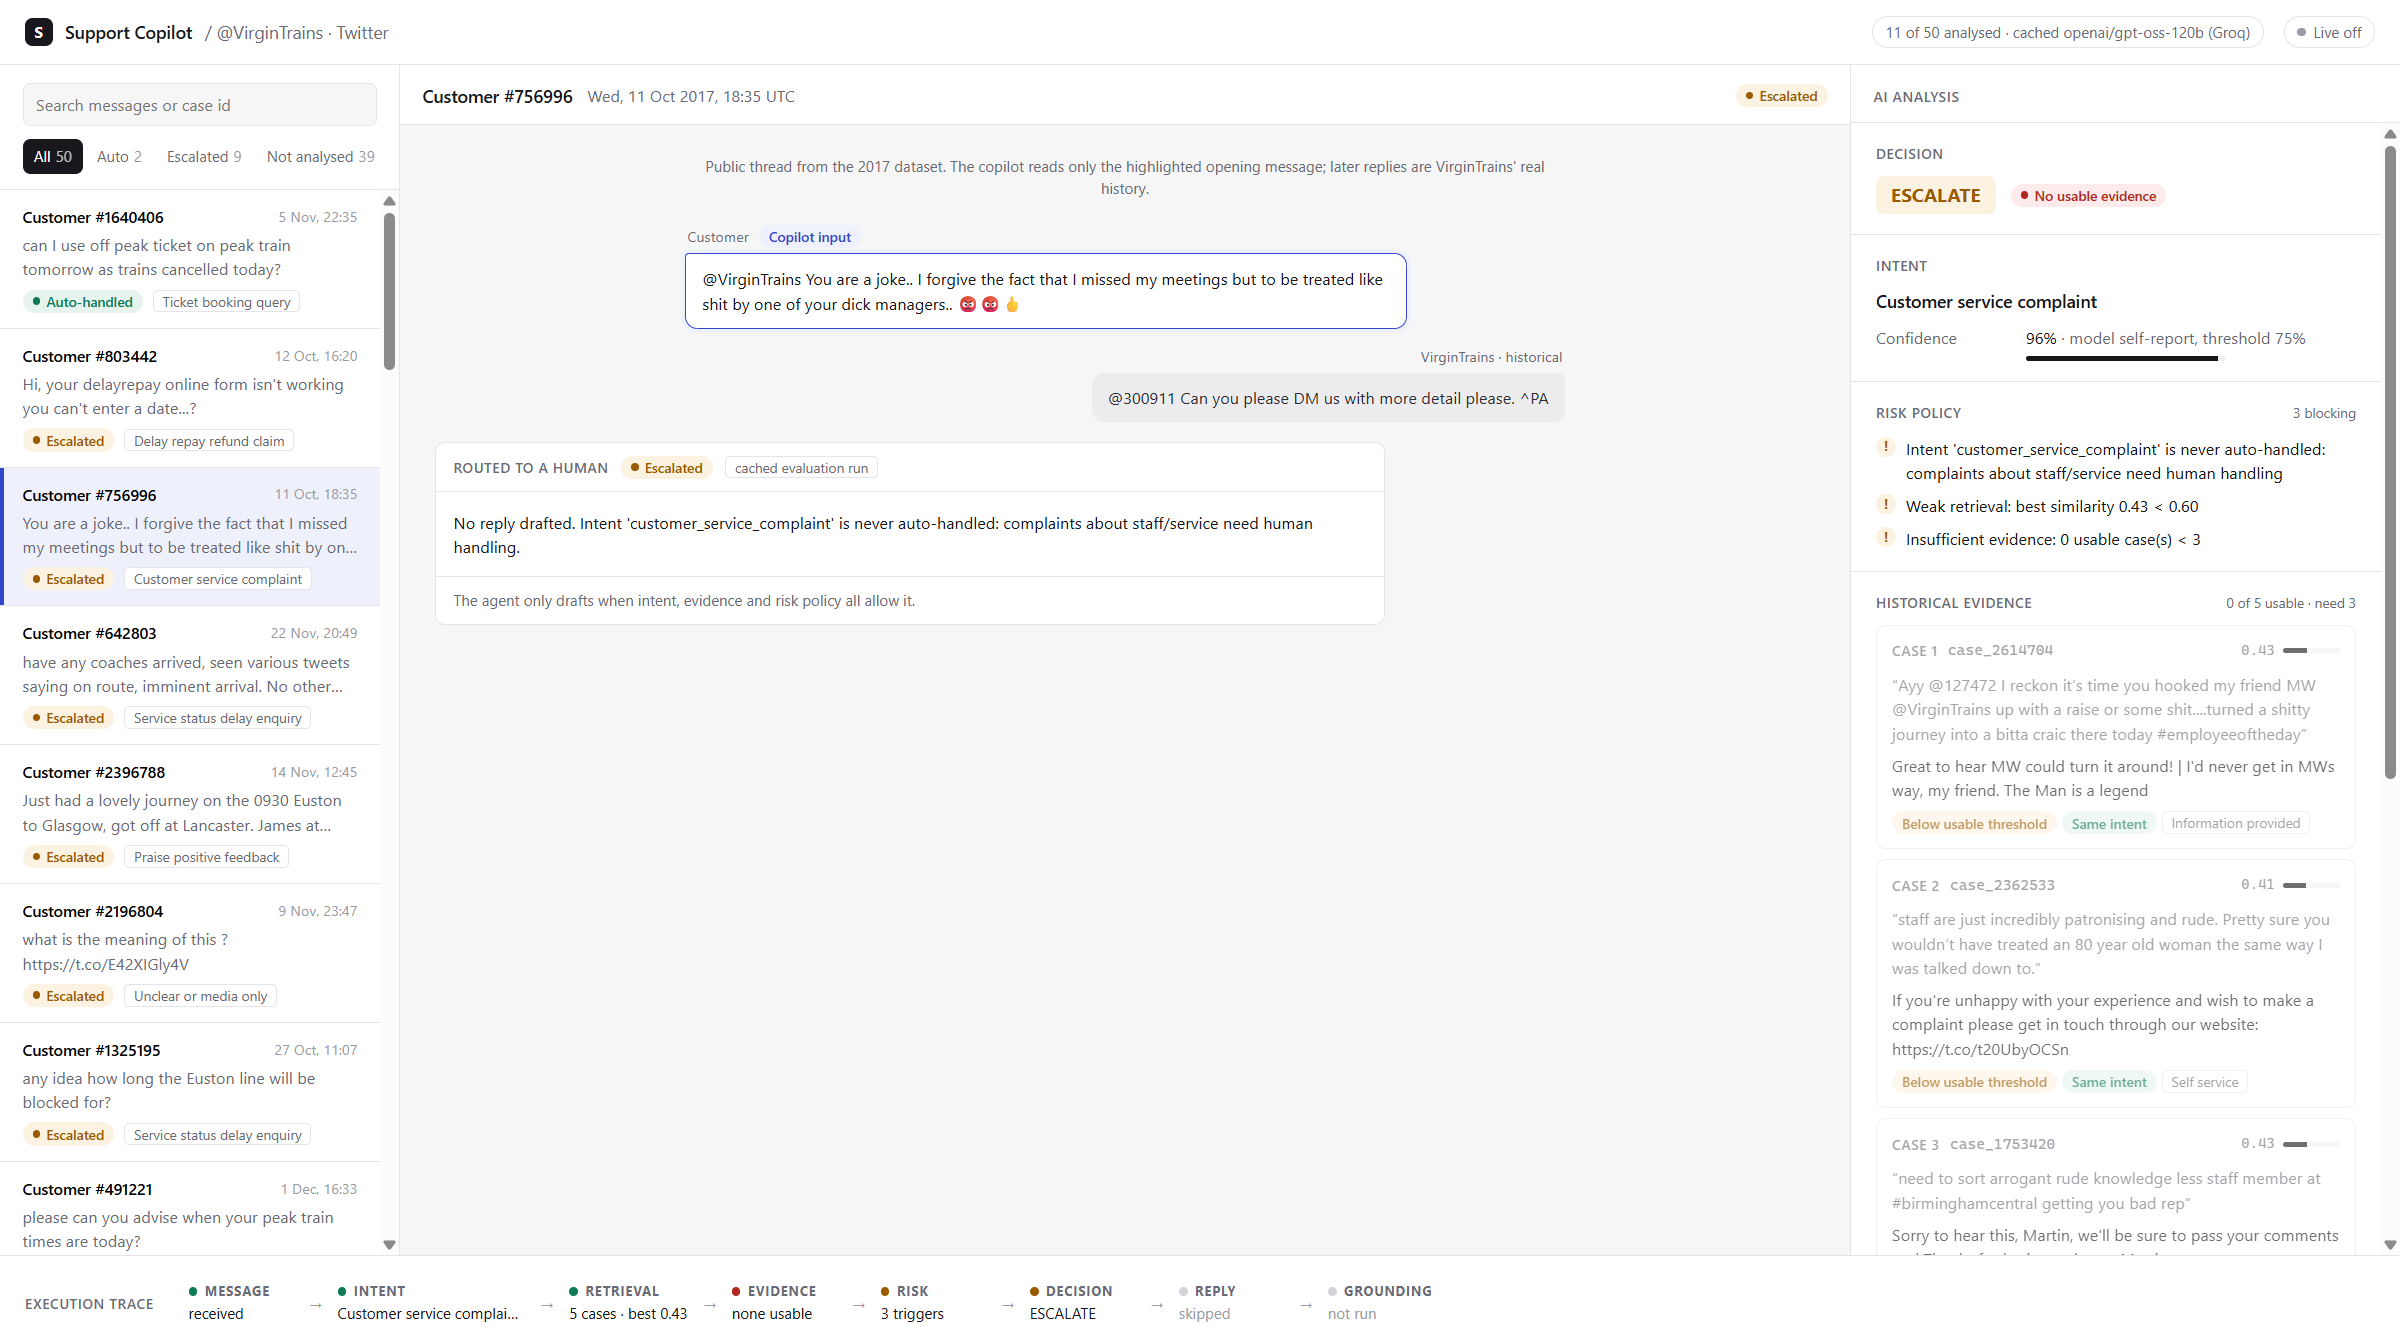
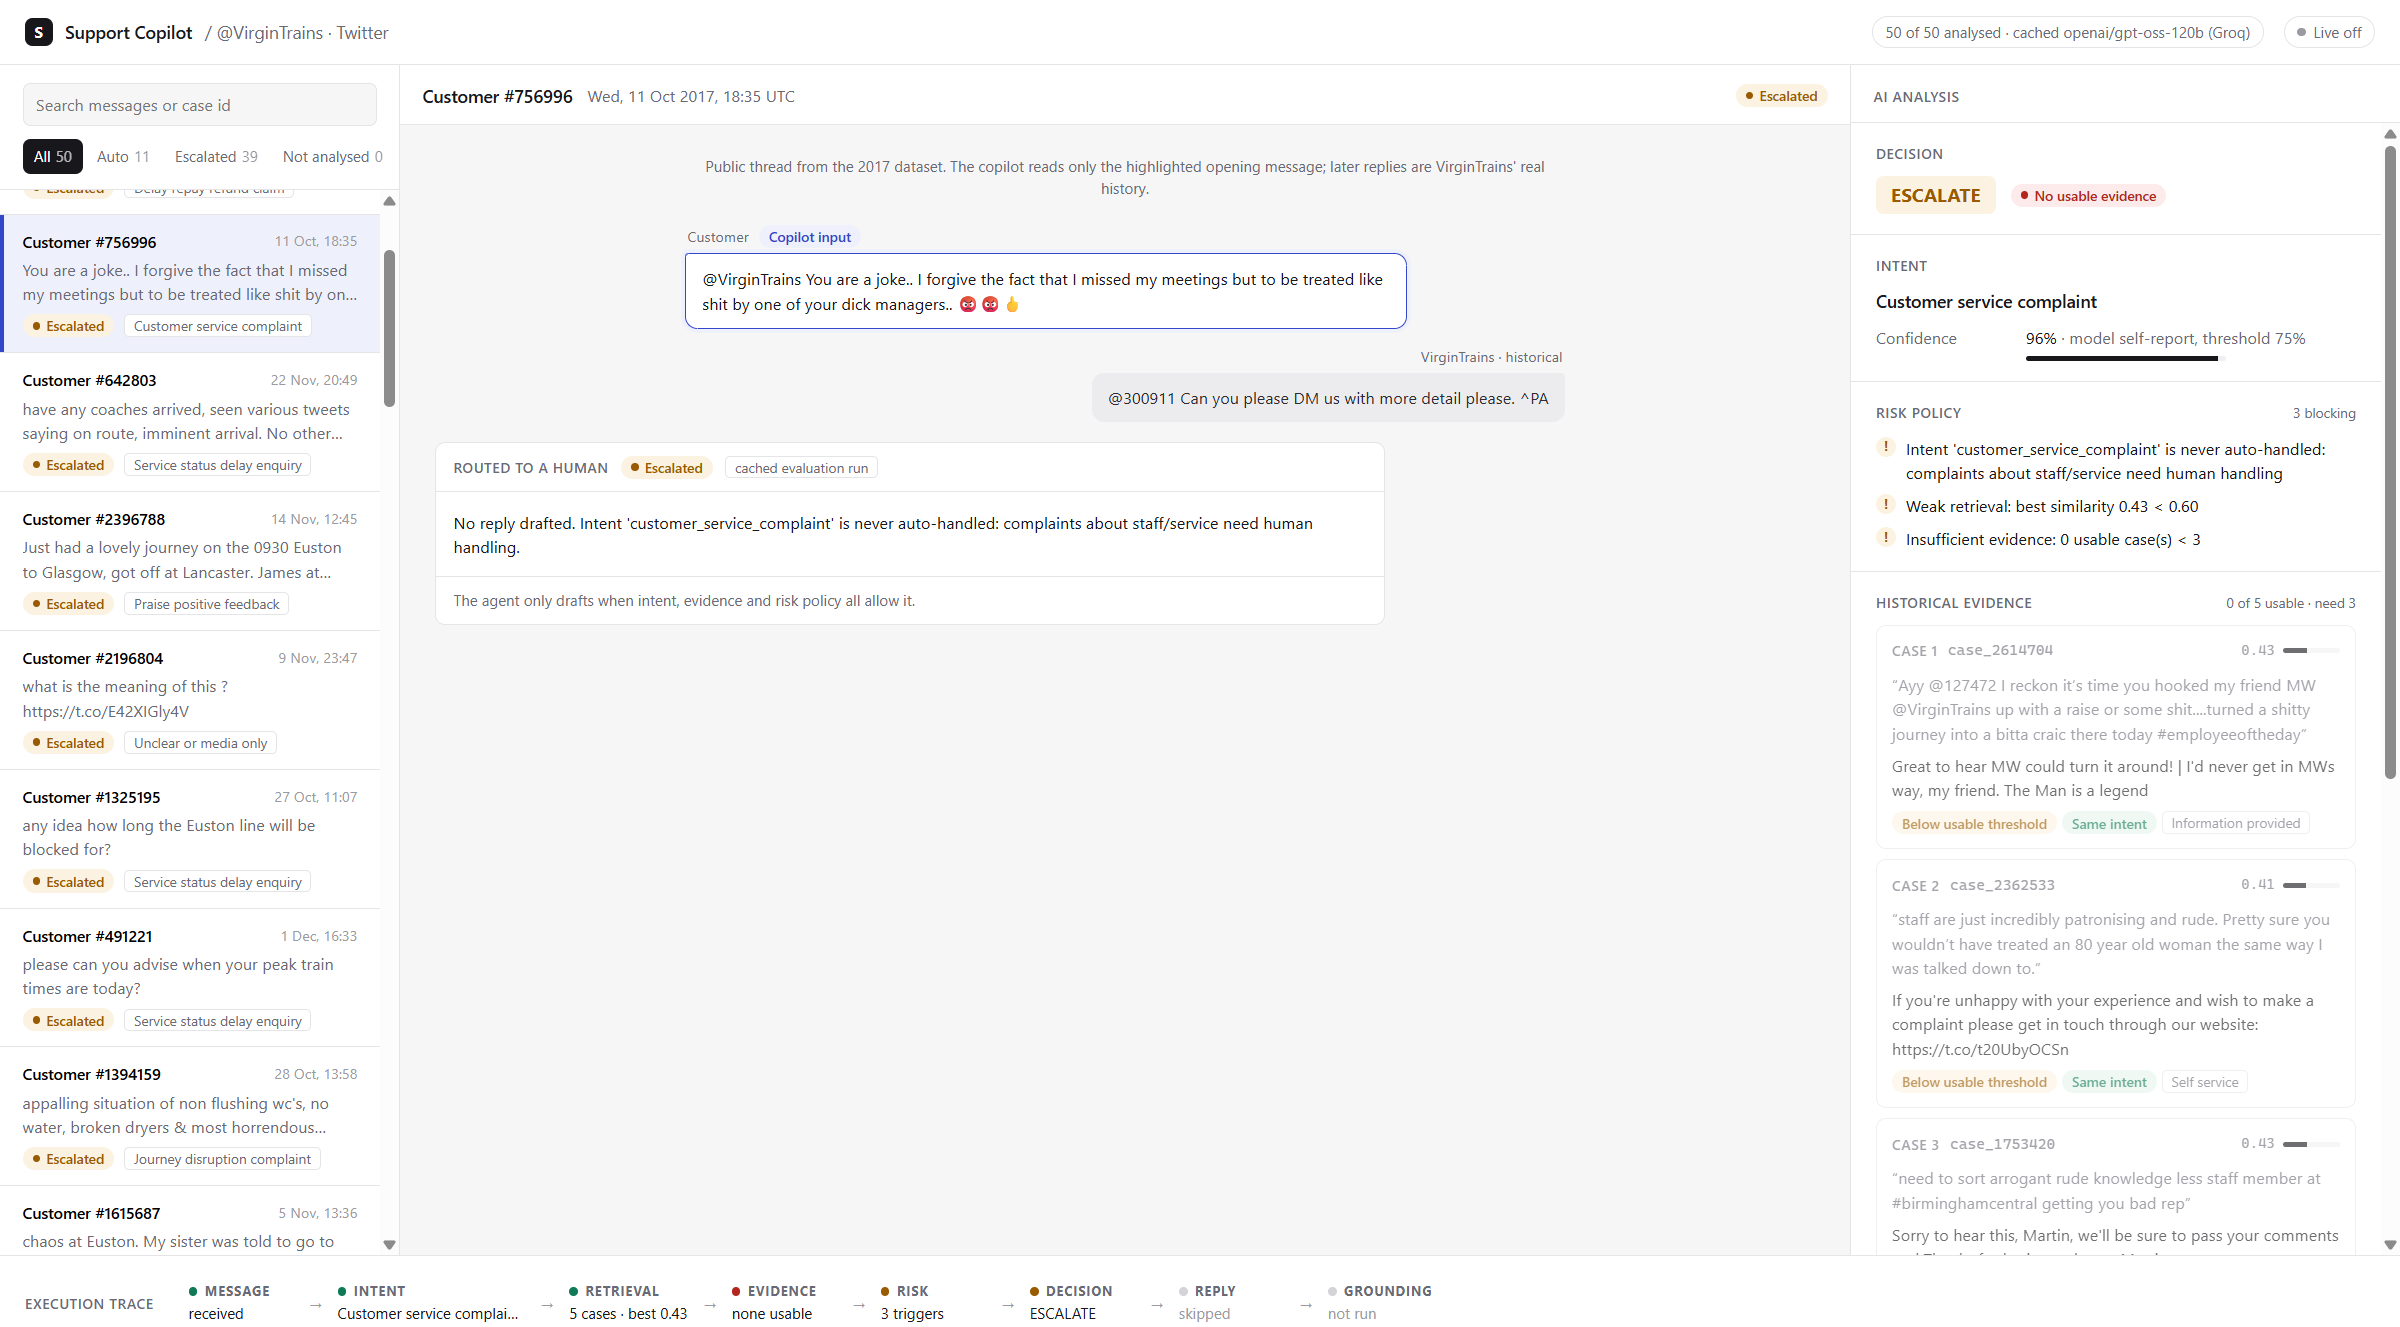
README: refresh Support Copilot screenshots for the full run and add a grounding-failure example

Changed region(s): [[0.0, 0.1236, 0.1875, 0.9578], [0.0625, 0.0927, 0.1562, 0.1236], [0.125, 0.6797, 0.1562, 0.7106]]

diff --git a/README.md b/README.md
@@ -48,11 +48,13 @@ replies blind ([Reproducing the results](#reproducing-the-results), step 7).
 
 *The local Support Copilot UI (`python scripts/run_copilot_ui.py`). It shows real cached agent runs: decision, intent,
 risk checks, the historical VirginTrains replies used as evidence, and the execution trace. It shows no chain-of-thought.
-Above is an AUTO_HANDLE case whose reply passed grounding. Below are two escalations from the same run.*
+Above is an AUTO_HANDLE case whose reply passed grounding. Below are three escalations from the same run.*
 
 | Escalated: staff complaint, no usable evidence (`case_756996`) | Escalated: praise mentioning a wheelchair, an over-escalation (`case_2396788`) |
 |---|---|
 | ![Escalated ticket: blocked intent, weak retrieval and no usable evidence; no reply drafted](docs/screenshots/copilot-escalated-no-evidence.png) | ![Escalated praise ticket: the sensitive-word rule fired on "wheelchair" although all 5 evidence cases were strong matches](docs/screenshots/copilot-escalated-sensitive-wording.png) |
+| **Draft blocked by grounding (`case_690119`)** | |
+| ![Grounding failure: the draft invented a fare-release date; the verifier lists the unsupported claims and the case is escalated](docs/screenshots/copilot-grounding-fail.png) | The policy allowed this case through, but the draft added claims the evidence doesn't support (a fare-release timeline), so grounding failed and the agent escalated instead of replying. The trace ends in "draft blocked" and "fail". |
 
 ---
 
